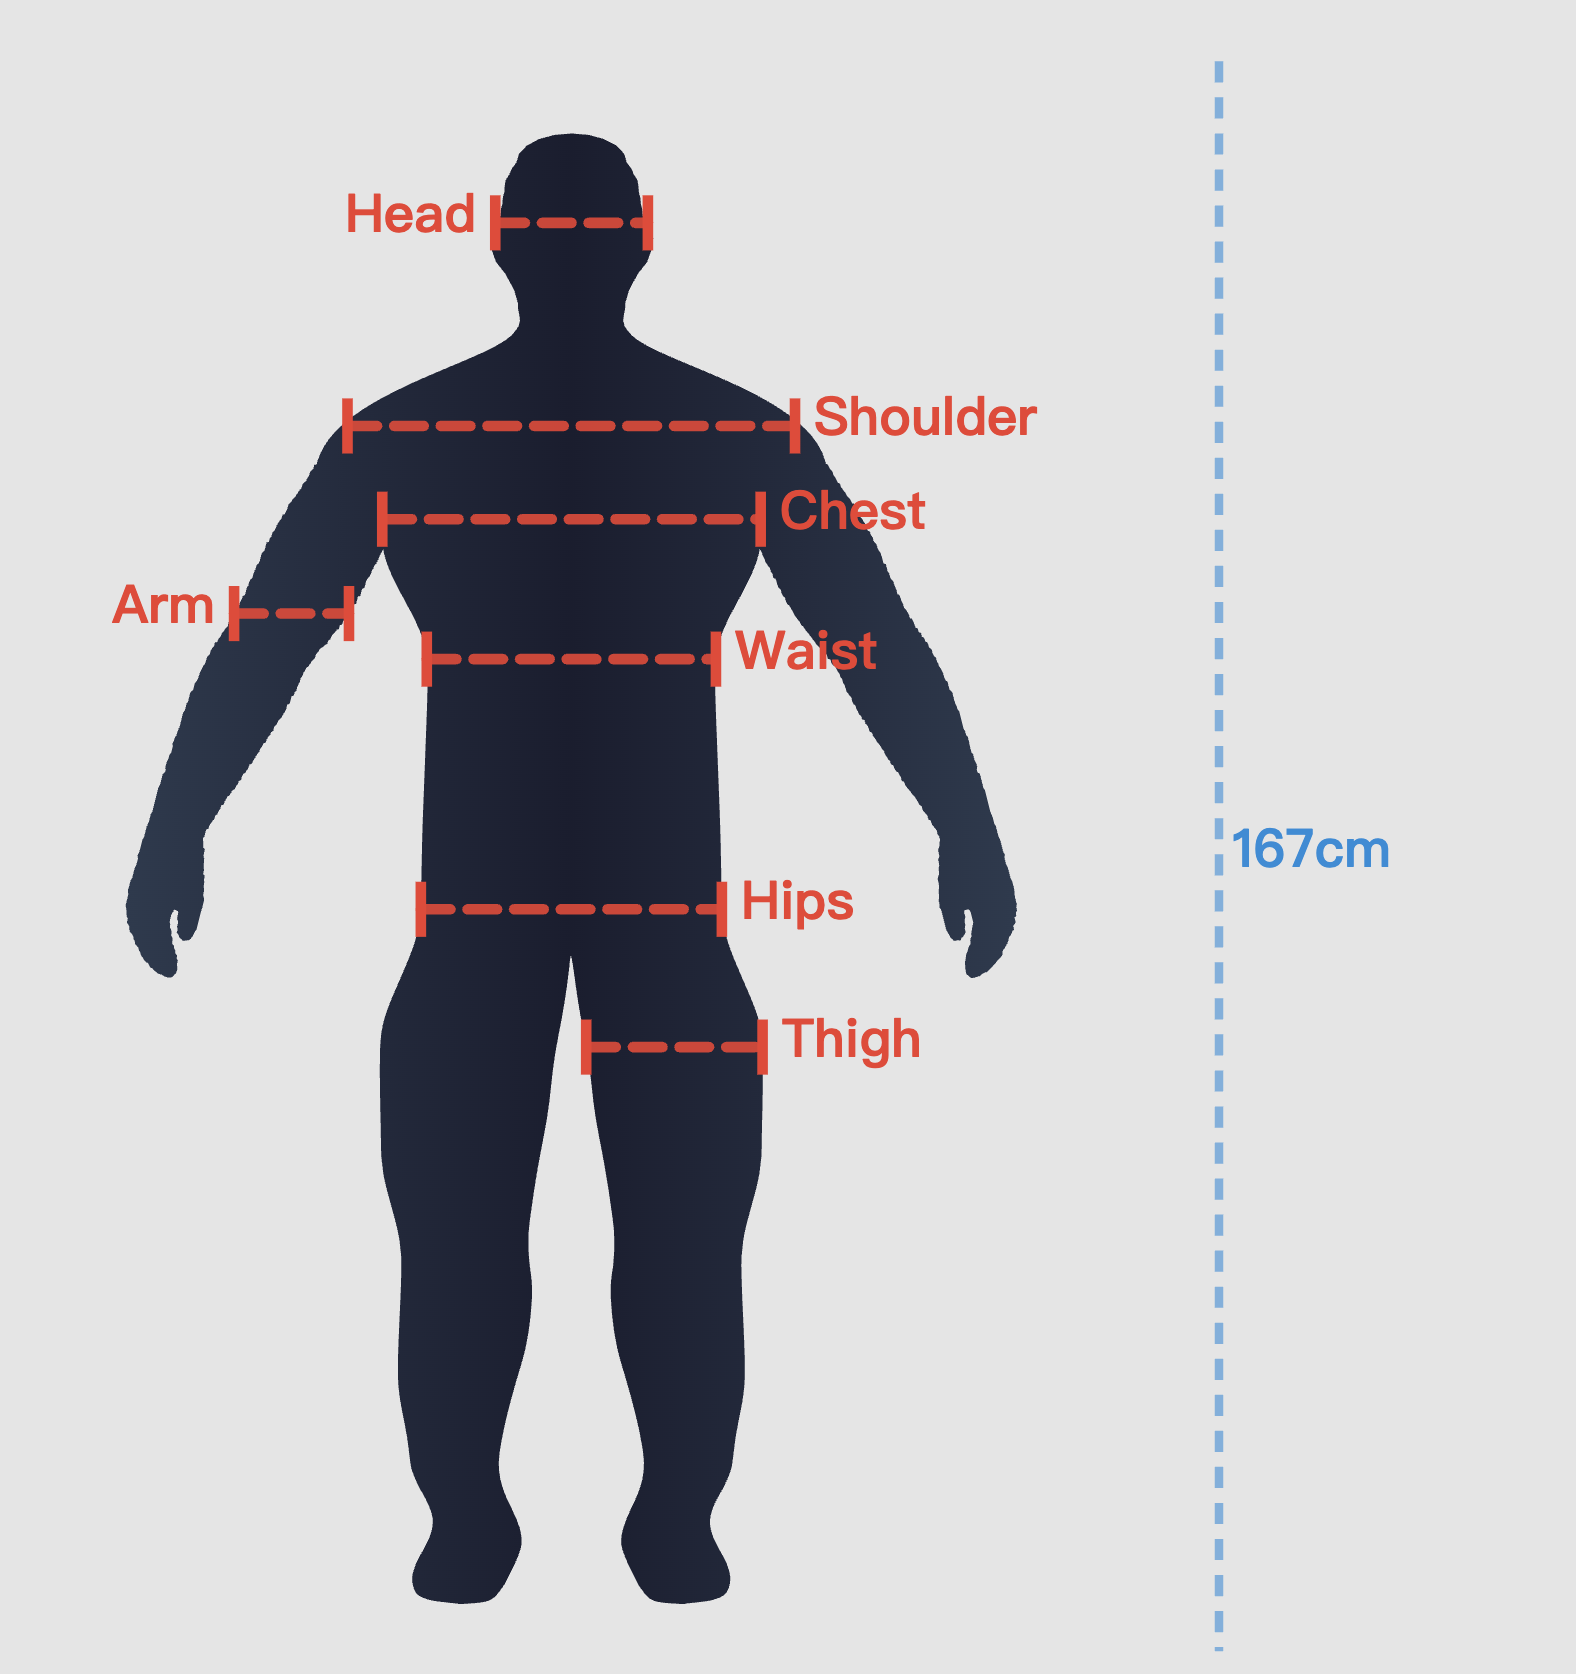
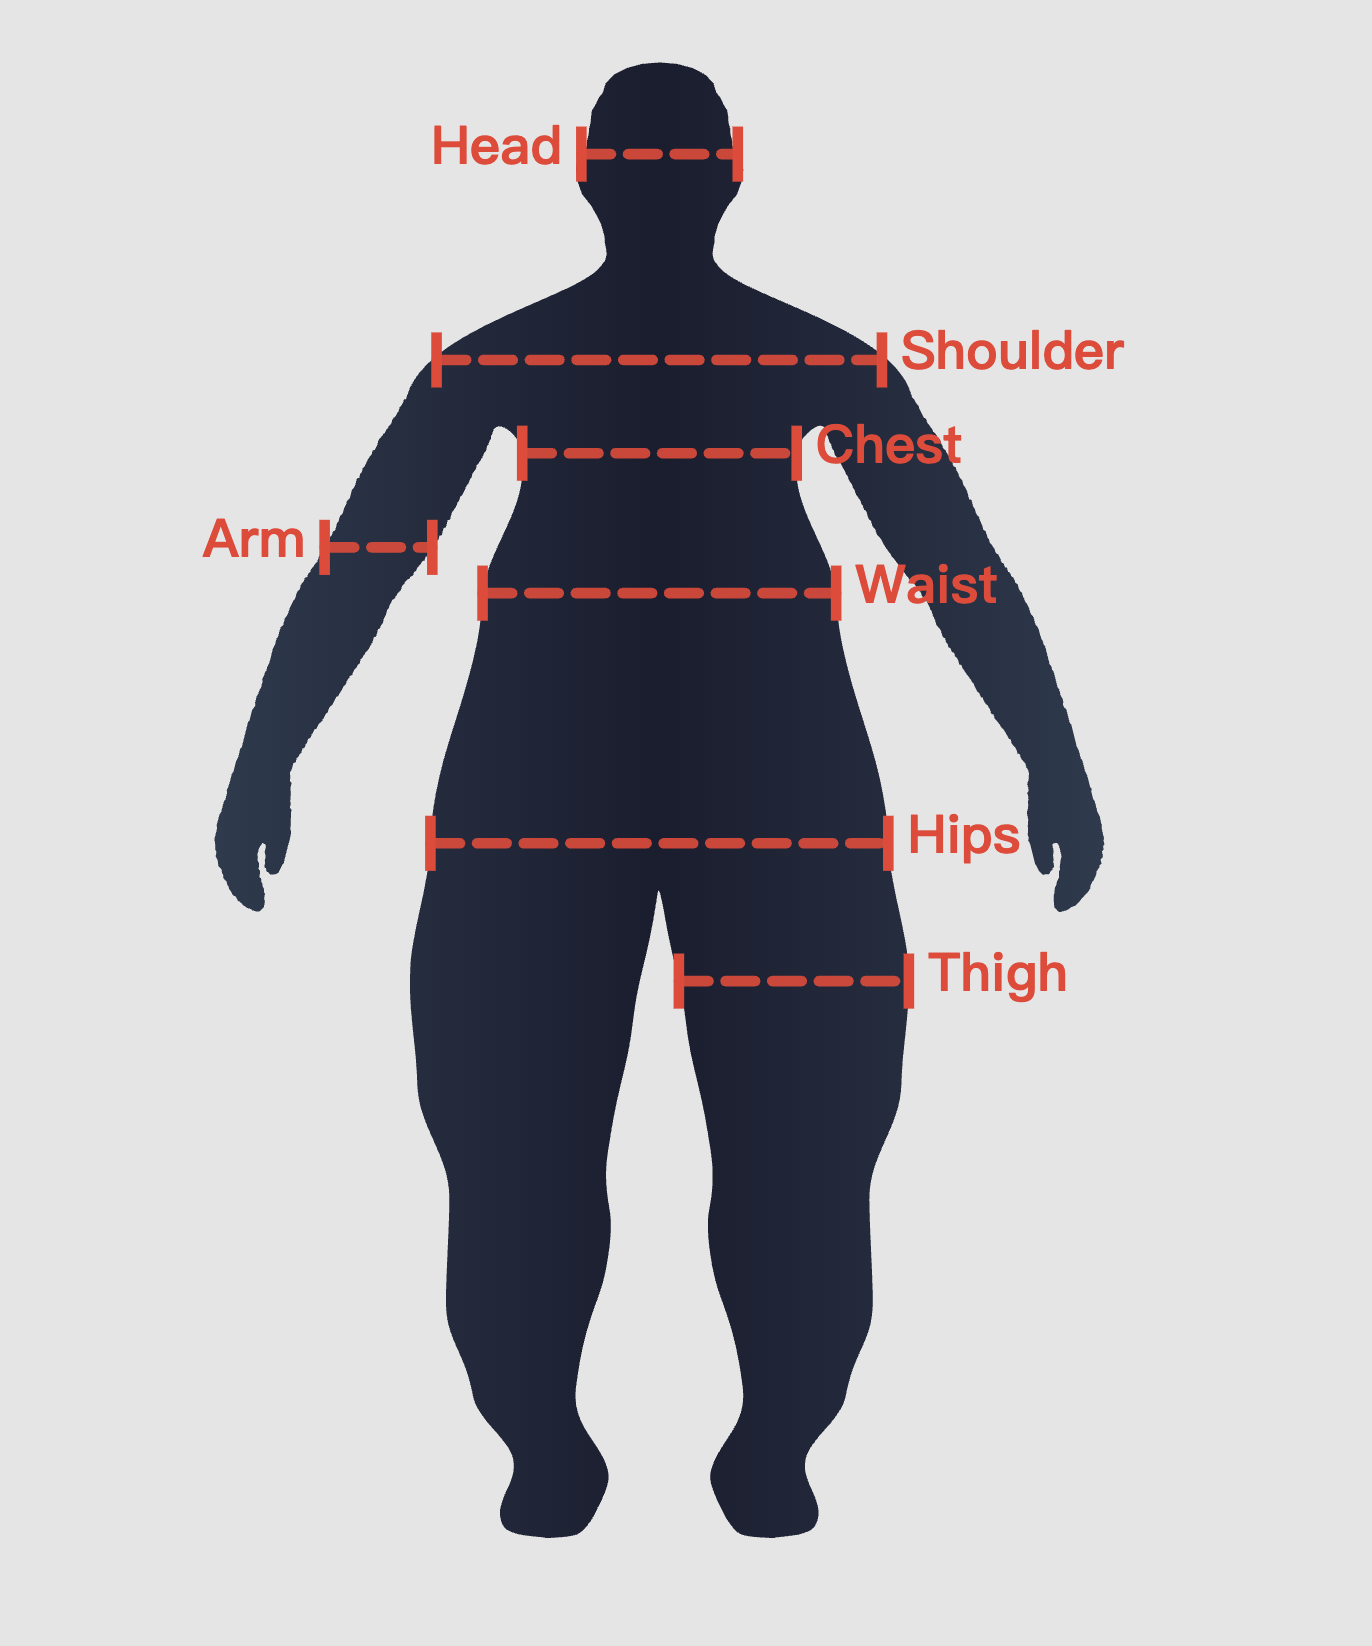
Add height-free guides version and updated side-by-side demo images

diff --git a/body-visualizer.html b/body-visualizer.html
@@ -3,7 +3,7 @@
 <head>
 <meta charset="UTF-8">
 <meta name="viewport" content="width=device-width, initial-scale=1.0">
-<title>BIA-InW Body Image Study - v60 No Height - No Guides</title>
+<title>BIA-InW Body Image Study - v60 No Height - All Guides</title>
 <meta name="body-visualizer-build" content="v60-no-height-1">
 <style>
 *{margin:0;padding:0;box-sizing:border-box}
@@ -125,7 +125,7 @@ html.bia-embedded [hidden]{display:none!important}
  html.bia-embedded .btn-next{padding:7px;min-height:31px;font-size:12px}
 }
 </style></head>
-<body data-bia-variant="no-height-no-guides">
+<body data-bia-variant="no-height-guides">
 <div id="toast"></div>
 <dialog id="adjustment-reminder" class="reminder-dialog" aria-labelledby="adjustment-reminder-title" aria-describedby="adjustment-reminder-message" oncancel="event.preventDefault();closeAdjustmentReminder()">
   <h2 id="adjustment-reminder-title">Continue without changes?</h2>
@@ -34429,7 +34429,7 @@ function runGeometryDiagnostics(cond,dv,hs){
 }
 
 
-const SHOW_MEASUREMENT_GUIDES=false;
+const SHOW_MEASUREMENT_GUIDES=true;
 
 function rightThighGuideSpan(pts,y){
   const xs=[];

diff --git a/index.html b/index.html
@@ -1,1 +1,1 @@
-<!doctype html><meta charset="utf-8"><title>BIA-InW — v60</title><h1>BIA-InW Body Visualizer</h1><p>v60: no height entry, no visible measurement guides.</p><p><a href="body-visualizer-noline.html">Open the body assessment</a></p><p>The former guides URL currently opens the same no-guides version. A height-free guides version will be added later.</p>
+<!doctype html><meta charset="utf-8"><title>BIA-InW — v60</title><h1>BIA-InW Body Visualizer</h1><p>v60: no participant height entry in either version.</p><p><a href="body-visualizer.html">With dimension guides</a></p><p><a href="body-visualizer-noline.html">Without dimension guides</a></p>

diff --git a/README.md b/README.md
@@ -8,11 +8,19 @@ Each page has seven dimensions, arranged from top to bottom: **Head, Shoulder, A
 
 ## v60: no height entry
 
-The current release removes participant height entry and its validation requirement. The figure is displayed **without measurement guides**, while the SVG measurement calculations remain available for analysis. Starting and final SVG scores, starting and final slider settings, and visible time on each body page are retained.
+The current release removes participant height entry and its validation requirement. Two display versions are available: with or without measurement guides. Both retain the same internal SVG measurement calculations for analysis. Starting and final SVG scores, starting and final slider settings, and visible time on each body page are retained.
 
-[Open the assessment](https://yvikxu.github.io/bia-visualizer-task/body-visualizer-noline.html)
+## Two versions
 
-Both existing HTML addresses temporarily serve this same **no-height, no-guides** version, so existing app links continue to work. The former guides address (`body-visualizer.html`) currently also displays no guides; a height-free version with guides will be added later.
+| With dimension guides | Without dimension guides |
+|---|---|
+| Lines identify the seven measured dimensions. | The silhouette is displayed without those lines. |
+| [Open with guides](https://yvikxu.github.io/bia-visualizer-task/body-visualizer.html) | [Open without guides](https://yvikxu.github.io/bia-visualizer-task/body-visualizer-noline.html) |
+| `body-visualizer.html` | `body-visualizer-noline.html` |
+
+<table><tr><td align="center" valign="bottom"><img src="with-guides-demo.png" height="478" alt="Body silhouette with seven dimension guides"><br>With dimension guides</td><td align="center" valign="bottom"><img src="without-guides-demo.png" height="478" alt="Body silhouette without dimension guides"><br>Without dimension guides</td></tr></table>
+
+These examples use different body settings. The two app variants have identical controls, geometry, scoring and export logic; only the visible measurement guides differ. Neither version collects height. Existing app addresses are retained.
 
 **Updating an existing Qualtrics survey:** Keep the existing iframe address. Replace the question JavaScript with [qualtrics/question.js](qualtrics/question.js), use the 87-field result list, test a new response, and publish the survey changes. Updating GitHub does not update JavaScript previously pasted into Qualtrics. Height-enabled saved states are not silently converted or overwritten; validate this release with a new response.
 
@@ -64,10 +72,10 @@ Keep your own copy so you control when the measurement changes.
 3. Wait until GitHub shows that your site is ready. Open the file link for your chosen version:
 
 ```text
-With dimension guides:
+With dimension guides (no height):
 https://YOUR-NAME.github.io/YOUR-REPO/body-visualizer.html
 
-Without dimension guides:
+Without dimension guides (no height):
 https://YOUR-NAME.github.io/YOUR-REPO/body-visualizer-noline.html
 ```
 
@@ -92,7 +100,7 @@ You may choose a different set of results for your study. The app's outgoing val
 2. Open the question's **HTML/source view**. Replace its contents with [qualtrics/question.html](qualtrics/question.html).
 3. In `data-app-url`, replace the example address with your own full app link from Step 1.
 
-**Guides version:** pending. Both HTML addresses currently display the same no-guides v60 app.
+**Want guides?** Use the link ending in `/body-visualizer.html`.
 
 **Want no guides?** Use the link ending in `/body-visualizer-noline.html`.
 
